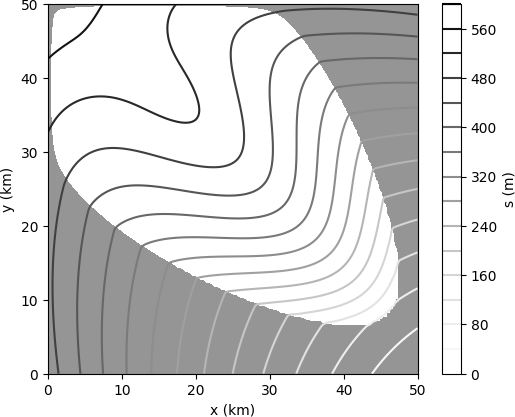
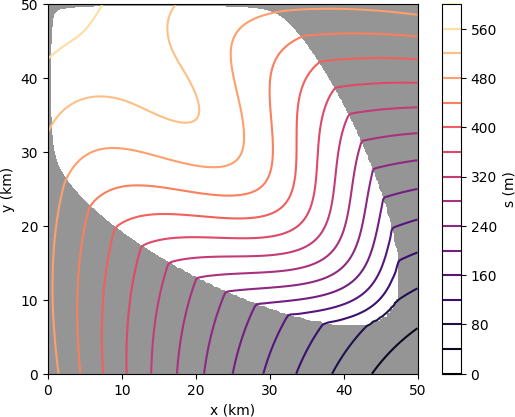
use color

diff --git a/py/surface2d.py b/py/surface2d.py
@@ -61,7 +61,7 @@ import matplotlib.pyplot as plt
 from firedrake.pyplot import tricontour
 fig, axes = plt.subplots()
 tricontourf(H, axes=axes, levels=[0.0, 1.0], cmap="Greys")
-contours = tricontour(s, axes=axes, levels=15, cmap="Greys")
+contours = tricontour(s, axes=axes, levels=15, cmap="magma")
 fig.colorbar(contours, label='s (m)')
 axes.set_aspect("equal")
 tickskm = np.linspace(0,L/1000.0,6)
